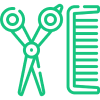
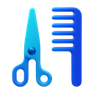
:twisted_rightwards_arrows:이미지 합성 브랜치와 merge 완료

diff --git a/client/components/Maker/Maker.jsx b/client/components/Maker/Maker.jsx
@@ -73,9 +73,11 @@ const Maker = () => {
     const observer = new ResizeObserver(entries => {
       for (let entry of entries) {
         const { height } = entry.contentRect;
+        // 버튼 크기를 더 적절하게 설정 (최소 120px 보장)
+        const buttonHeight = Math.max(120, height / 4);
         setButtonStyle({
-          height: `${height / 5}px`,
-          padding: '0.25rem'
+          height: `${buttonHeight}px`,
+          padding: '1rem'
         });
       }
     });
@@ -406,15 +408,15 @@ const Maker = () => {
       {/* 케어 활동 선택 버튼들 */}
       <div className={styles.iconButtonsContainer}>
         <button className={styles.iconButton} style={buttonStyle} onClick={() => handleIconClick('food')}>
-          <img src="/images/Bob.png" alt="밥주기" style={{ width: '95%', height: '95%', objectFit: 'contain' }} />
+          <img src="/images/Bob.png" alt="밥주기" />
           <span className={styles.buttonLabel}>밥주기</span>
         </button>
         <button className={styles.iconButton} style={buttonStyle} onClick={() => handleIconClick('shower')}>
-          <img src="/images/Wash.png" alt="씻기기" style={{ width: '95%', height: '95%', objectFit: 'contain' }} />
+          <img src="/images/Shower.png" alt="씻기기" />
           <span className={styles.buttonLabel}>씻기기</span>
         </button>
         <button className={styles.iconButton} style={buttonStyle} onClick={() => handleIconClick('grooming')}>
-          <img src="/images/Beauty.png" alt="미용하기" style={{ width: '95%', height: '95%', objectFit: 'contain' }} />
+          <img src="/images/Pretty.png" alt="미용하기" />
           <span className={styles.buttonLabel}>미용하기</span>
         </button>
       </div>

diff --git a/client/components/Maker/Maker.module.css b/client/components/Maker/Maker.module.css
@@ -245,13 +245,14 @@
   flex-direction: column;
   align-items: center;
   justify-content: center;
-  min-height: 80px;
+  min-height: 120px;
   cursor: pointer;
   background: #ffffff;
   color: #d97706;
   transition: background-color 0.15s ease, transform 0.05s ease;
-  padding: 0.5rem;
+  padding: 1rem;
   border: none;
+  gap: 8px;
 }
 
 .iconButton + .iconButton {
@@ -270,17 +271,20 @@
 /* SVG/IMG 아이콘 크기 통일 */
 .iconButton svg,
 .iconButton img {
-  width: 40px;
-  height: 40px;
+  width: 50px;
+  height: 50px;
   object-fit: contain;
+  flex-shrink: 0;
 }
 
 .buttonLabel {
   display: block;
-  font-size: 0.8rem;
-  margin-top: 5px;
+  font-size: 0.9rem;
   color: #666;
   font-weight: 500;
+  text-align: center;
+  line-height: 1.2;
+  white-space: nowrap;
 }
 
 /* Modal Styling */
